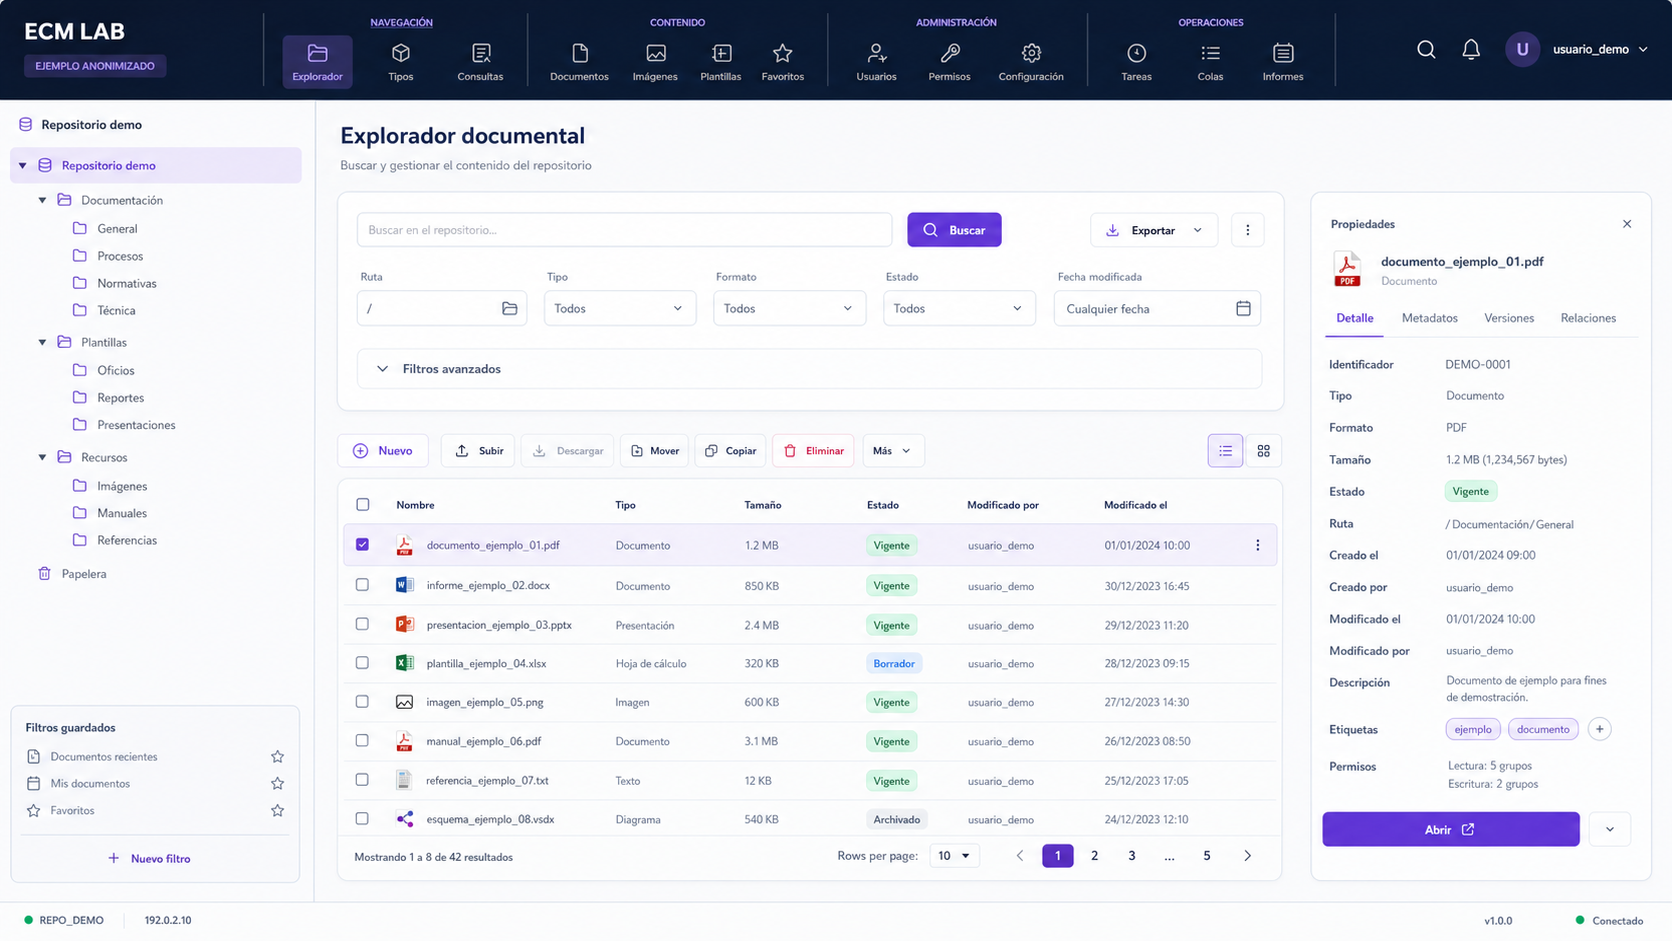
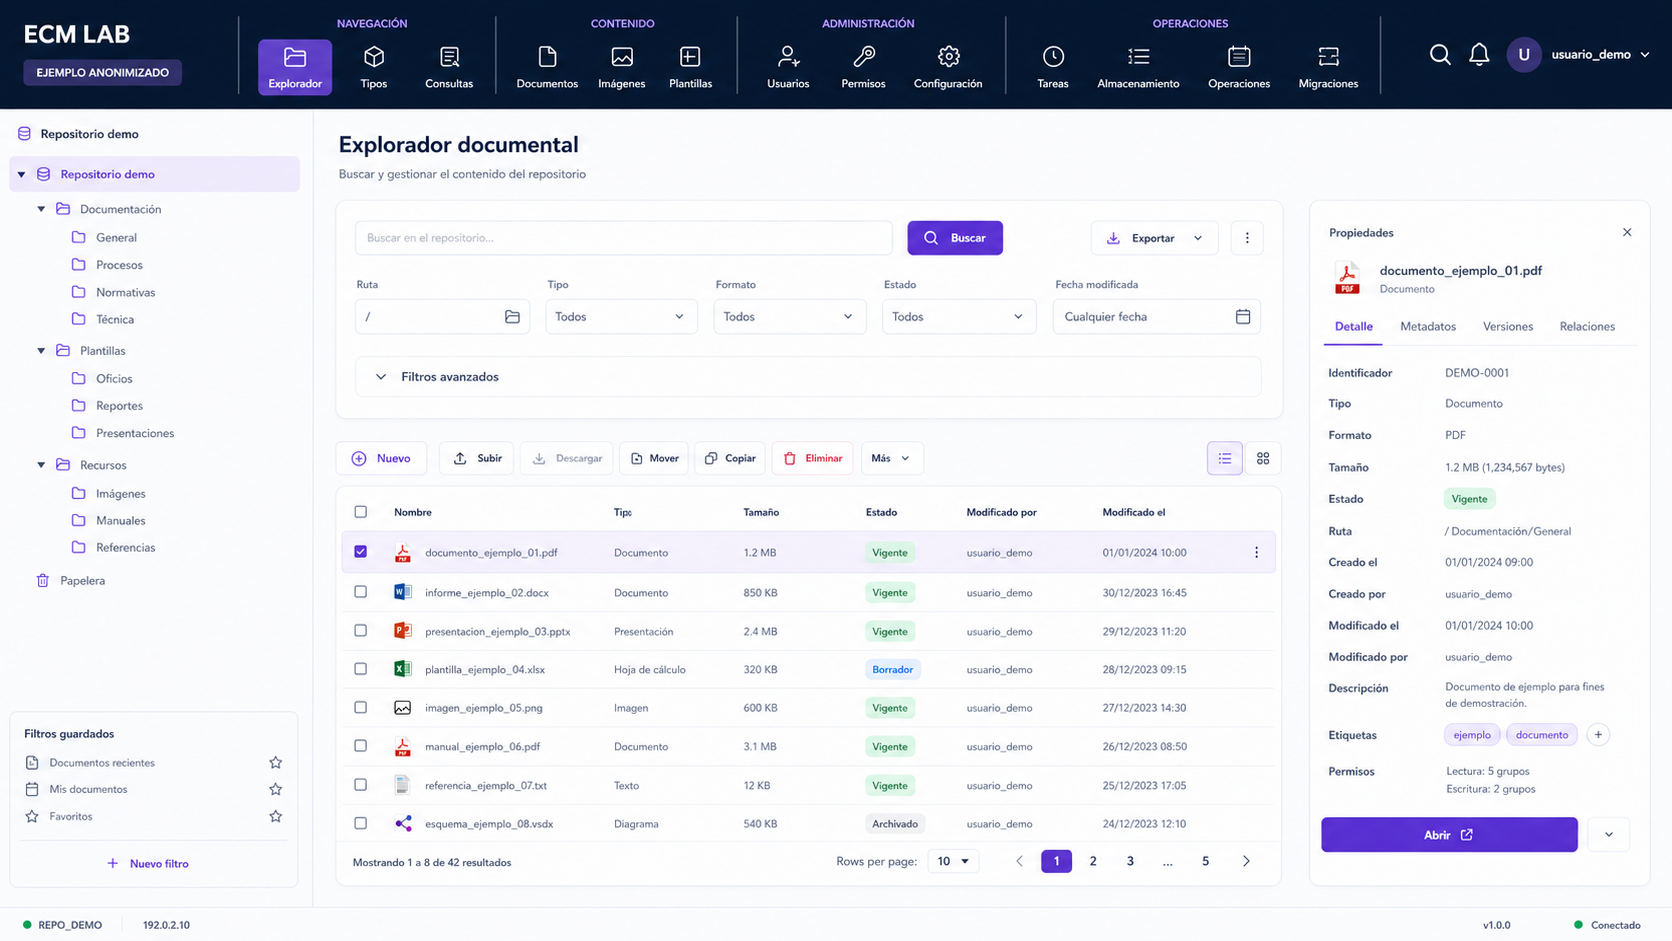
feat: expand unified application carousel

diff --git a/index.html b/index.html
@@ -106,17 +106,29 @@
         <div class="app-carousel focus-carousel" data-carousel aria-roledescription="carrusel" aria-label="Ejemplos anonimizados de aplicaciones internas">
           <div class="app-carousel-viewport">
             <div class="app-carousel-track">
-              <figure class="app-slide" aria-label="Ejemplo 1 de 2">
+              <figure class="app-slide" aria-label="Ejemplo 1 de 4">
                 <a href="assets/app-examples/explorador-documental-anonimizado.png" target="_blank" rel="noreferrer" aria-label="Abrir ejemplo anonimizado del explorador documental">
                   <img src="assets/app-examples/explorador-documental-anonimizado.png" alt="Recreación anonimizada de una aplicación interna para explorar y gestionar contenido documental" loading="lazy" width="1536" height="864">
                 </a>
                 <figcaption><span>01 · EXPLORADOR DOCUMENTAL</span><p>Ejemplo recreado y anonimizado de una interfaz para localizar, consultar y gestionar contenido del repositorio.</p></figcaption>
               </figure>
-              <figure class="app-slide" aria-label="Ejemplo 2 de 2">
+              <figure class="app-slide" aria-label="Ejemplo 2 de 4">
                 <a href="assets/app-examples/observabilidad-almacenamiento-anonimizada.png" target="_blank" rel="noreferrer" aria-label="Abrir ejemplo anonimizado de observabilidad de almacenamiento">
                   <img src="assets/app-examples/observabilidad-almacenamiento-anonimizada.png" alt="Recreación anonimizada de una aplicación interna para observar el almacenamiento documental" loading="lazy" width="1536" height="864">
                 </a>
                 <figcaption><span>02 · OBSERVABILIDAD DE ALMACENAMIENTO</span><p>Ejemplo recreado y anonimizado de un panel para analizar capacidad, distribución y uso del almacenamiento.</p></figcaption>
+              </figure>
+              <figure class="app-slide" aria-label="Ejemplo 3 de 4">
+                <a href="assets/app-examples/operaciones-masivas-anonimizadas.png" target="_blank" rel="noreferrer" aria-label="Abrir ejemplo anonimizado de operaciones masivas">
+                  <img src="assets/app-examples/operaciones-masivas-anonimizadas.png" alt="Recreación anonimizada de una aplicación interna para validar y ejecutar operaciones documentales masivas" loading="lazy" width="1536" height="864">
+                </a>
+                <figcaption><span>03 · OPERACIONES MASIVAS</span><p>Ejemplo recreado y anonimizado de una herramienta para importar, validar y ejecutar actualizaciones masivas con trazabilidad.</p></figcaption>
+              </figure>
+              <figure class="app-slide" aria-label="Ejemplo 4 de 4">
+                <a href="assets/app-examples/control-migracion-anonimizado.png" target="_blank" rel="noreferrer" aria-label="Abrir ejemplo anonimizado de control de migración">
+                  <img src="assets/app-examples/control-migracion-anonimizado.png" alt="Recreación anonimizada de una aplicación interna para controlar y reconciliar migraciones documentales" loading="lazy" width="1536" height="864">
+                </a>
+                <figcaption><span>04 · CONTROL DE MIGRACIÓN</span><p>Ejemplo recreado y anonimizado de un panel para seguir lotes, transformaciones y reconciliar origen y destino.</p></figcaption>
               </figure>
             </div>
           </div>
@@ -128,8 +140,10 @@
             <div class="app-carousel-dots" role="tablist" aria-label="Seleccionar ejemplo">
               <button type="button" class="is-active" data-carousel-dot="0" role="tab" aria-selected="true" aria-label="Ver ejemplo 1"></button>
               <button type="button" data-carousel-dot="1" role="tab" aria-selected="false" aria-label="Ver ejemplo 2"></button>
+              <button type="button" data-carousel-dot="2" role="tab" aria-selected="false" aria-label="Ver ejemplo 3"></button>
+              <button type="button" data-carousel-dot="3" role="tab" aria-selected="false" aria-label="Ver ejemplo 4"></button>
             </div>
-            <p class="app-carousel-status" aria-live="polite"><span>01</span> / 02</p>
+            <p class="app-carousel-status" aria-live="polite"><span>01</span> / <span data-carousel-total>04</span></p>
           </div>
           <p class="app-showcase-note">Material ilustrativo · No corresponde a un entorno productivo · Datos completamente ficticios</p>
         </div>

diff --git a/js/main.js b/js/main.js
@@ -168,8 +168,11 @@
     const next = carousel.querySelector("[data-carousel-next]");
     const dots = Array.from(carousel.querySelectorAll("[data-carousel-dot]"));
     const status = carousel.querySelector(".app-carousel-status span");
+    const totalStatus = carousel.querySelector("[data-carousel-total]");
     let current = 0;
     let touchStartX = 0;
+
+    totalStatus.textContent = String(slides.length).padStart(2, "0");
 
     function showSlide(index) {
       current = (index + slides.length) % slides.length;
